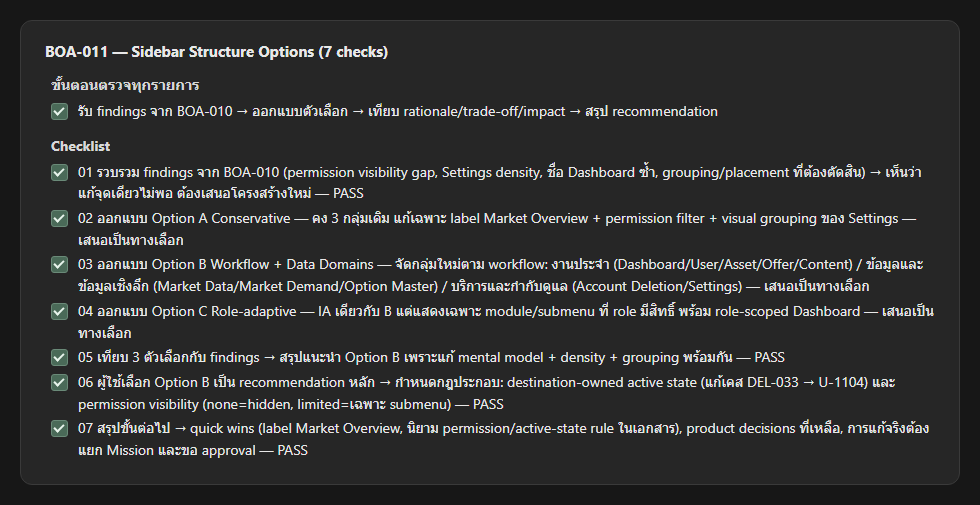
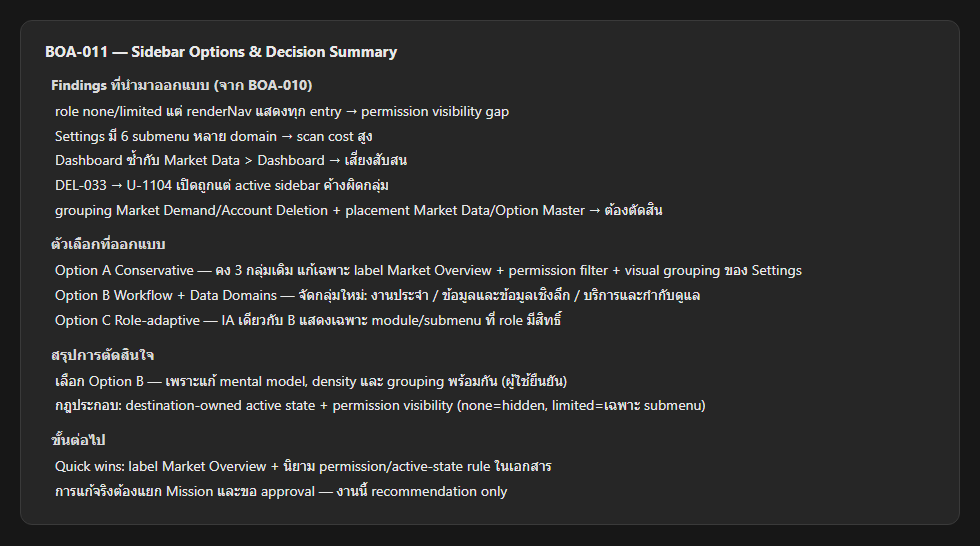
docs(BOA-011): use summary card instead of checklist for design decision task
Generated with [Devin](https://devin.ai)

Changed region(s): [[0.0306, 0.1485, 0.949, 0.9208], [0.0306, 0.0594, 0.4286, 0.1188]]

diff --git a/scripts/render-checklist-card.js b/scripts/render-checklist-card.js
@@ -18,6 +18,7 @@ function esc(s) {
   return s.replace(/&/g, "&amp;").replace(/</g, "&lt;").replace(/>/g, "&gt;");
 }
 
+const plain = process.argv.includes("--plain"); // summary mode: ไม่มี checkbox
 const raw = fs.readFileSync(input, "utf8").replace(/\r/g, "").split("\n");
 const title = raw.shift().trim();
 
@@ -28,6 +29,8 @@ for (const line of raw) {
   const sec = t.match(/^==\s+(.+)/);
   if (sec) {
     html += `    <div class="sec">${esc(sec[1])}</div>\n`;
+  } else if (plain) {
+    html += `    <li class="pl"><span>${esc(t.replace(/^-\s*/, ""))}</span></li>\n`;
   } else {
     html += `    <li><span class="cb"></span><span>${esc(t)}</span></li>\n`;
   }
@@ -49,6 +52,7 @@ ${html}  </ul>
   .sec { font-weight: 700; font-size: 14px; margin: 14px 0 6px; color: #d8d8d8; }
   ul { list-style: none; margin: 0; padding: 0 0 0 6px; }
   li { display: flex; gap: 10px; align-items: flex-start; font-size: 14px; line-height: 1.55; margin: 3px 0; }
+  li.pl { padding-left: 4px; }
   .cb { flex: none; width: 15px; height: 15px; margin-top: 3px; border-radius: 3px;
         background: #4a6a58; border: 1px solid #6a8a78; position: relative; }
   .cb::after { content: ""; position: absolute; left: 4px; top: 1px; width: 4px; height: 8px;
